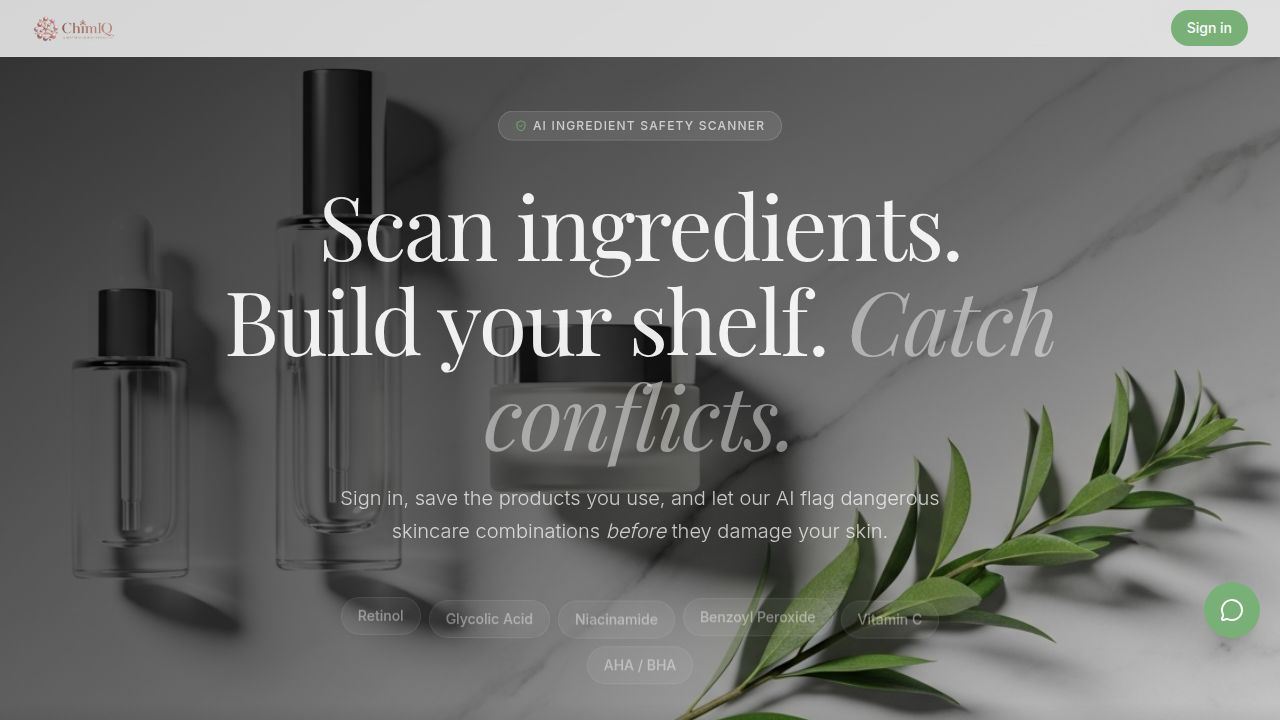
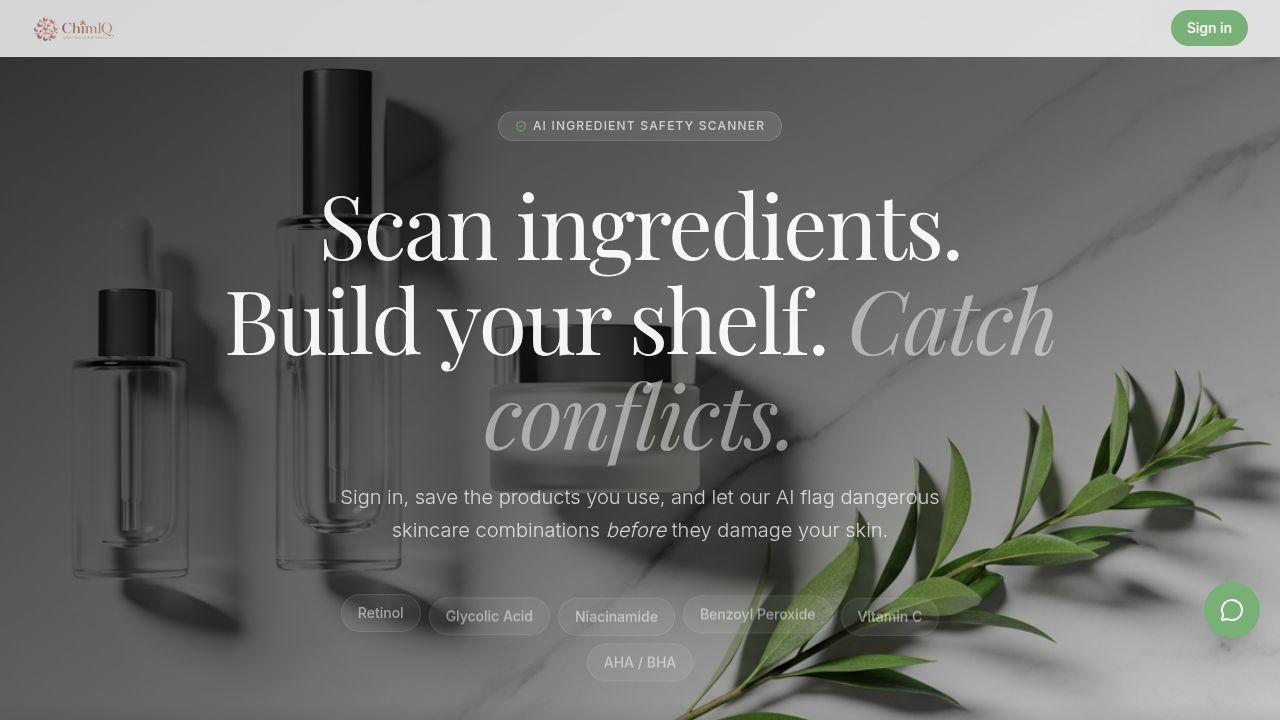
Bucket B post-launch hardening: per-page OG previews + scanner pre-fill contract test
Original task: ship #87 (per-page OG previews for marketing pages) and #89
(vitest tests locking down Discover→scanner pre-fill data shape).

#87 — Marketing page OG previews
- Extended artifacts/skinscreen/scripts/build-og.mjs with a MARKETING_PAGES
  table and a marketing-style SVG template (eyebrow + big serif title +
  hook + brand bar).
- Build now emits dist/public/{pricing,discover,recipes}/index.html with
  per-page og:* and twitter:* tags, plus 1200×630 PNGs under
  dist/public/og/marketing/<slug>.png.
- Fixed a bug architect flagged: renderHtml previously hardcoded
  og:type=article and emitted article:section even on website-typed
  pages. Now correctly maps marketing → og:type=website with no
  article:section, and articles still get og:type=article + the section.
- Home (/) intentionally left on the existing site-wide OG tags.

#89 — Discover→scanner pre-fill contract test
- Added vitest ^4.1.4 to artifacts/skinscreen with a "test" script.
- New artifacts/skinscreen/vitest.config.ts (standalone, doesn't load
  vite.config.ts) so the test runner doesn't trip the dev-server PORT
  guard.
- New artifacts/skinscreen/src/lib/discover-content.test.ts asserts
  every non-shelf CTA carries a seed, shelf CTAs do not, single seeds
  have non-empty trimmed ingredients + productName, compare seeds have
  non-empty trimmed product1/product2/product1Name/product2Name, and
  every alternatives-type CTA seed contains at least one
[…]

diff --git a/artifacts/skinscreen/src/lib/discover-content.test.ts b/artifacts/skinscreen/src/lib/discover-content.test.ts
@@ -1,0 +1,159 @@
+import { describe, expect, it } from "vitest";
+import {
+  TOP_MISTAKES,
+  TOP_WORRIES,
+  type DiscoverCta,
+  type MistakeItem,
+  type WorryItem,
+} from "./discover-content";
+
+// #89 — lock the Discover → scanner pre-fill behind a contract test so a
+// future refactor (or a new article added without a seed) can't silently
+// break the "tap a CTA → land in the scanner with the right product
+// pre-loaded" flow that #58 + #88 shipped.
+//
+// What the production flow needs from this data:
+//   1. Every CTA except the three shelf-routing ones MUST carry a `seed`
+//      payload — otherwise tapping the button drops the user into an empty
+//      scanner.
+//   2. Shelf CTAs MUST NOT carry a seed — they navigate to /app, where a
+//      seed would be silently dropped (and we don't want one fired anyway).
+//   3. Single-mode seeds need a non-empty `ingredients` string and a
+//      `productName`; otherwise the scanner header reads "Scanned product"
+//      and the auto-run analyses nothing.
+//   4. Compare-mode seeds need both products filled (with names) — the
+//      auto-run mutate() rejects empty inputs.
+//   5. `alternatives`-type CTAs only render their alternatives panel when
+//      the scanner returns at least one flag. So those seeds MUST contain
+//      at least one well-known flagged ingredient token, otherwise the CTA
+//      is a dead end ("Find a safer …" → spinner → nothing).
+
+const ALL_ARTICLES: ReadonlyArray<MistakeItem | WorryItem> = [
+  ...TOP_MISTAKES,
+  ...TOP_WORRIES,
+];
+
+// Tokens that the conflict engine reliably flags. Kept lowercase; we match
+// substrings inside the seeded ingredient list. If the model's flag rules
+// change, update this list — it's the source of truth for "this seed will
+// produce a non-empty alternatives section".
+const FLAG_TOKENS = [
+  "fragrance",
+  "parfum",
+  "paraben", // matches methylparaben, propylparaben, butylparaben
+  "hydroquinone",
+  "alcohol denat",
+  "oxybenzone",
+  "octinoxate",
+  "sodium lauryl sulfate",
+  "sls,",
+  "isopropyl myristate",
+  "retinol",
+  "retinyl",
+  "adapalene",
+  "tretinoin",
+  "glycolic acid",
+  "salicylic acid",
+  "blue 1",
+  "yellow 5",
+  "red 4",
+  "linalool",
+  "limonene",
+  "bht",
+  "mineral oil",
+  "paraffinum liquidum",
+];
+
+function describeArticle(a: MistakeItem | WorryItem): string {
+  return `${"severity" in a ? "MISTAKE" : "WORRY"} #${a.rank} ${a.slug}`;
+}
+
+describe("Discover article CTAs — scanner pre-fill contract (#89)", () => {
+  it("every non-shelf CTA carries a seed", () => {
+    const offenders: string[] = [];
+    for (const a of ALL_ARTICLES) {
+      const cta: DiscoverCta = a.cta;
+      if (cta.type !== "shelf" && !cta.seed) {
+        offenders.push(`${describeArticle(a)} (cta type=${cta.type}, label="${cta.label}")`);
+      }
+    }
+    expect(offenders, `Missing seed:\n  ${offenders.join("\n  ")}`).toEqual([]);
+  });
+
+  it("shelf CTAs do not carry a seed (they navigate to /app, not scanner)", () => {
+    const offenders: string[] = [];
+    for (const a of ALL_ARTICLES) {
+      if (a.cta.type === "shelf" && a.cta.seed) {
+        offenders.push(describeArticle(a));
+      }
+    }
+    expect(offenders, `Shelf CTAs with stray seed:\n  ${offenders.join("\n  ")}`).toEqual([]);
+  });
+
+  it("single-mode seeds have non-empty ingredients AND a productName", () => {
+    const offenders: string[] = [];
+    for (const a of ALL_ARTICLES) {
+      const seed = a.cta.seed;
+      if (!seed || seed.mode !== "single") continue;
+      if (!seed.ingredients || seed.ingredients.trim().length === 0) {
+        offenders.push(`${describeArticle(a)} (ingredients empty)`);
+      }
+      if (!seed.productName || seed.productName.trim().length === 0) {
+        offenders.push(`${describeArticle(a)} (productName empty)`);
+      }
+    }
+    expect(offenders, `Bad single seeds:\n  ${offenders.join("\n  ")}`).toEqual([]);
+  });
+
+  it("compare-mode seeds have non-empty product1 + product2 AND both names (whitespace-trimmed)", () => {
+    const offenders: string[] = [];
+    for (const a of ALL_ARTICLES) {
+      const seed = a.cta.seed;
+      if (!seed || seed.mode !== "compare") continue;
+      if (!seed.product1 || seed.product1.trim().length === 0) {
+        offenders.push(`${describeArticle(a)} (product1 ingredient list empty/whitespace)`);
+      }
+      if (!seed.product2 || seed.product2.trim().length === 0) {
+        offenders.push(`${describeArticle(a)} (product2 ingredient list empty/whitespace)`);
+      }
+      if (!seed.product1Name || seed.product1Name.trim().length === 0) {
+        offenders.push(`${describeArticle(a)} (product1Name empty/whitespace)`);
+      }
+      if (!seed.product2Name || seed.product2Name.trim().length === 0) {
+        offenders.push(`${describeArticle(a)} (product2Name empty/whitespace)`);
+      }
+    }
+    expect(offenders, `Bad compare seeds:\n  ${offenders.join("\n  ")}`).toEqual([]);
+  });
+
+  it("'alternatives'-type CTAs seed at least one reliably-flagged ingredient", () => {
+    // Without this, the AlternativesSection renders empty (it gates on
+    // singleResult.flags.length > 0) and the user lands on a dead-end CTA.
+    //
+    // NOTE: this is a token-heuristic check, not a real analyzer call.
+    // The production gate is the LLM-driven flagger in the API server, so
+    // a token here only *guarantees* a flag for ingredients the model has
+    // historically caught. If the analyzer logic changes meaningfully,
+    // this test can stay green while the alternatives panel goes blank —
+    // re-run a manual QA pass through the 14 single-mode CTAs after any
+    // analyzer-rules edit.
+    const offenders: string[] = [];
+    for (const a of ALL_ARTICLES) {
+      if (a.cta.type !== "alternatives") continue;
+      const seed = a.cta.seed;
+      if (!seed) continue; // covered by the first test
+      const haystack =
+        seed.mode === "single"
+          ? (seed.ingredients ?? "").toLowerCase()
+          : `${seed.product1 ?? ""} ${seed.product2 ?? ""}`.toLowerCase();
+      const found = FLAG_TOKENS.some((tok) => haystack.includes(tok));
+      if (!found) {
+        offenders.push(`${describeArticle(a)} — seed ingredients have none of: ${FLAG_TOKENS.slice(0, 5).join(", ")}, …`);
+      }
+    }
+    expect(
+      offenders,
+      `Alternatives CTAs that risk an empty alternatives panel:\n  ${offenders.join("\n  ")}`,
+    ).toEqual([]);
+  });
+});

diff --git a/artifacts/skinscreen/vitest.config.ts b/artifacts/skinscreen/vitest.config.ts
@@ -1,0 +1,17 @@
+import { defineConfig } from "vitest/config";
+import path from "path";
+
+// Standalone vitest config so the test runner doesn't try to load
+// `vite.config.ts`, which throws when PORT isn't set (the dev-server
+// guard). Tests are pure-Node units and never need the real dev server.
+export default defineConfig({
+  resolve: {
+    alias: {
+      "@": path.resolve(__dirname, "./src"),
+    },
+  },
+  test: {
+    environment: "node",
+    include: ["src/**/*.test.ts", "src/**/*.test.tsx"],
+  },
+});

diff --git a/replit.md b/replit.md
@@ -156,3 +156,21 @@ Utility scripts package. Each script is a `.ts` file in `src/` with a correspond
   renders when `singleResult.flags.length > 0`. Shelf-type CTAs (3 articles)
   intentionally have no seed because they navigate to `/app`, not the
   scanner.
+- **Marketing page OG previews (#87)** — `scripts/build-og.mjs` now also
+  generates per-page share previews for the SPA-only marketing routes:
+  `/pricing`, `/discover`, `/recipes`. Each gets a 1200×630 PNG under
+  `dist/public/og/marketing/<slug>.png` plus a static
+  `dist/public/<slug>/index.html` with per-page `og:*` and `twitter:*`
+  meta tags. Bots fetching these URLs see the right preview; the SPA
+  fallback handles real users. Home (`/`) is left on the site-wide OG in
+  the root `index.html` (the existing `/opengraph.jpg`).
+- **Discover→scanner pre-fill contract test (#89)** — added vitest to the
+  skinscreen artifact (`pnpm --filter @workspace/skinscreen test`) with a
+  standalone `vitest.config.ts` that bypasses the dev-server `PORT`
+  guard. `src/lib/discover-content.test.ts` locks down the data-shape
+  contract: every non-shelf CTA carries a seed, shelf CTAs do not, single
+  seeds have non-empty `ingredients` + `productName`, compare seeds have
+  both products + names, and every `alternatives`-type CTA seeds at
+  least one reliably-flagged ingredient token (fragrance / paraben /
+  hydroquinone / dye / etc.) so the alternatives panel never renders
+  empty. Removing or malforming a seed in the future fails CI.